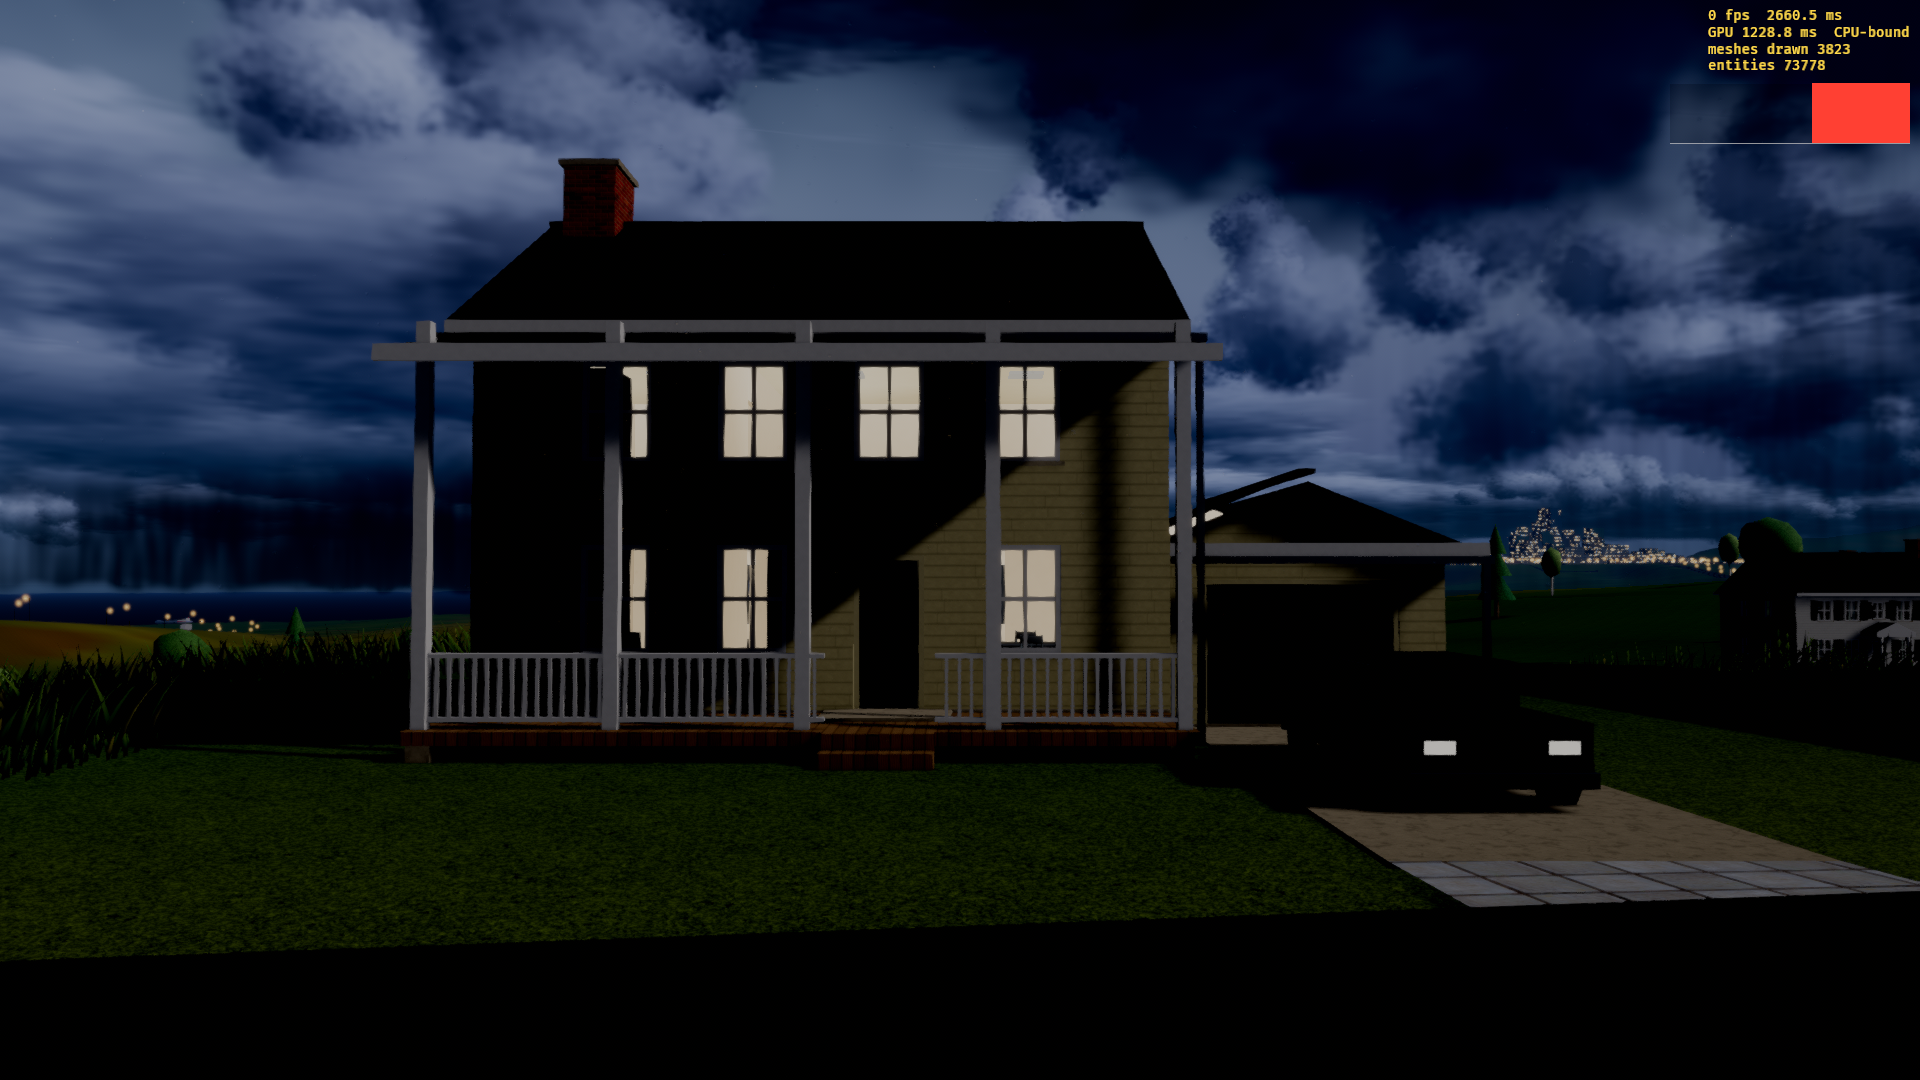
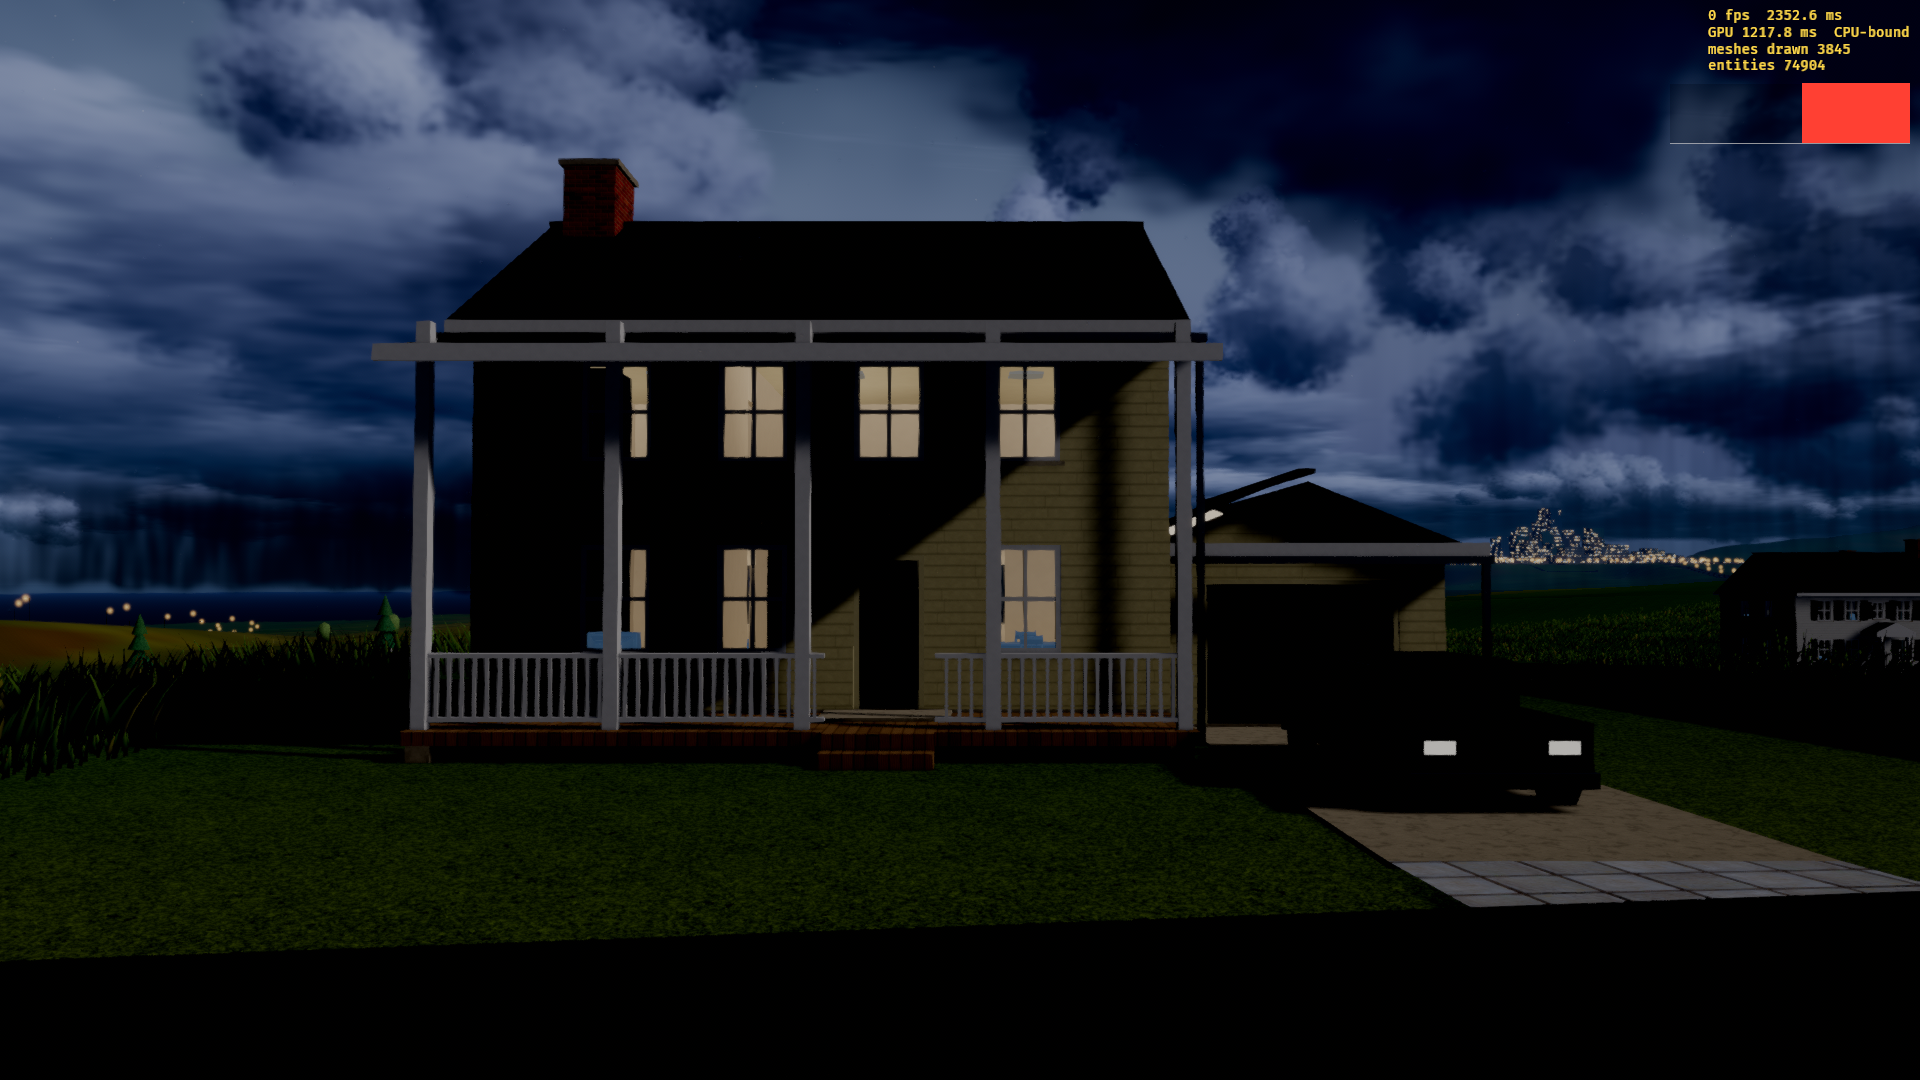
Night light: house stills in game; airfield-at-night mockup published
In game at 22:00: a house behind the towers' glass with its lit room
(before/after crop), and from 300 m the far shells' windows lit house by house.
The airfield mockup (runway, taxiway, approach and PAPI light dots, apron masts,
car-park lamps, lit terminal, always-lit tower cab, a seaport shed) published at
https://claude.ai/artifact/CyXuvuLXdAoWfqcctdUKkr for the owner's look before
any game code for it.

Claude-Session: https://claude.ai/code/session_0158CApsWQMLsRjS8gSGiYVS

diff --git a/docs/mockups/runway_lights.html b/docs/mockups/runway_lights.html
@@ -49,7 +49,7 @@ aside h2 { font: 700 20px/1.1 var(--display); letter-spacing: 0.03em; margin: 0;
     <aside>
       <h2>Views</h2>
       <div class="row" role="group" aria-label="View">
-        <button id="v-final" data-view="final">On final, 3 km out</button>
+        <button id="v-final" data-view="final">On final, 600 m out</button>
         <button id="v-apron" data-view="apron">On the apron</button>
         <button id="v-tower" data-view="tower">From the tower cab</button>
         <button id="v-above" data-view="above">From above</button>
@@ -208,7 +208,7 @@ groups.dots.add(new THREE.Points(dg, dotMat));
 
 // ---- views and layers ----
 const VIEWS = {
-  final: { eye: [-RW.half - 3000, 160, -40], at: [0, 0, 0], label: "on final, 3 km out, 160 m up (a 3 degree glide path)" },
+  final: { eye: [-RW.half - 600, 32, -6], at: [-RW.half + 500, 0, 0], label: "on final, 600 m out, 32 m up (a 3 degree glide path)" },
   apron: { eye: [120, 1.7, SITE_Z + 80], at: [-200, 6, -20], label: "on foot on the apron, eye 1.7 m" },
   tower: { eye: [372, 41, SITE_Z + 112], at: [-300, 0, 0], label: "from the tower cab, 41 m" },
   above: { eye: [700, 900, 1400], at: [0, 0, 100], label: "from above, about 1.6 km off" },

diff --git a/docs/design/README.md b/docs/design/README.md
@@ -68,6 +68,7 @@ built on it), `mech-rig.md`, `alien-rig.md`.
 
 | Page | Published | Built by |
 | --- | --- | --- |
+| Airfield at Night (`docs/mockups/runway_lights.html`): a 2,000 m runway, its taxiway, the terminal apron, the control tower and a seaport shed at 22:00, at true size beside the Foreman and a pilot: runway edge, centre line, threshold, end, approach, PAPI and taxiway light dots, white apron masts and car-park lamps with their pools, the buildings lit every night and the tower cab always (`openspec/changes/night-voxel-light` section 2d) | https://claude.ai/artifact/CyXuvuLXdAoWfqcctdUKkr | hand-written page; shots by `tools/mockups/shoot_runway_lights.mjs` into `docs/screenshots/night-light/` |
 | Night Window Light (`docs/mockups/night_light.html`): a glass office tower across a street at 22:00 three ways (today's glowing glass, glowing panes in vertex colour with the bake's spill, lit rooms behind clear glass), lit by the real bake: lamps and spill by a shortest path through 0.5 m voxels, each room's vertices by distance from its light point; `bench()` times the room light both ways (`openspec/changes/night-voxel-light`) | https://claude.ai/artifact/RYFz1ZXL6pWVcW2fxpiTFF | hand-written page; shots by `tools/mockups/shoot_night_light.mjs` into `docs/screenshots/night-light/` |
 | Crab Breeze Sounds (`docs/mockups/sounds.html`): the first 36 sound effects (mech, weapons, impacts, cockpit), synthesised placeholders, each with a waveform strip and a play button | https://claude.ai/artifact/6XyiVnCGRqbLXq6qPjSXhg | `tools/audio/render_sfx.sh` (generator `tools/audio/gen_sfx.py`), then `python3 tools/audio/gen_sfx_page.py` (the sounds are embedded in the page) |
 | Crab Breeze Music (`docs/mockups/music.html`): the five cues (moody rebel cyberpunk) to play, every motif as a piano roll drawn from the score with its notes and meaning, the musical world | https://claude.ai/artifact/17Lj37SLPpsARPqE9ZfV9C | `tools/music/render.sh` for each `music/<cue>.strudel`, then published with `output/music/*.mp3` as files (skill `music-authoring`) |

diff --git a/openspec/changes/night-voxel-light/tasks.md b/openspec/changes/night-voxel-light/tasks.md
@@ -47,7 +47,7 @@ glass lighting?"). Survey N9-N11 open, built on the recommendations while open.
 
 ## 3e. Airports, seaports and runway lights (owner: "airports and seaports lit like this at all times", "runway lights ... just light dots")
 
-- [ ] 3.15 Mockup `docs/mockups/runway_lights.html`, published, looked at by the owner before 3.16 and 3.17
+- [x] 3.15 Mockup `docs/mockups/runway_lights.html`, published (https://claude.ai/artifact/CyXuvuLXdAoWfqcctdUKkr); waiting for the owner's look before 3.16-3.19
 - [ ] 3.16 Site buildings (Airport, Seaport zones) carry `ALWAYS_LIT`: lit through dusk and all night, no share
 - [ ] 3.19 The control towers' cabs `ALWAYS_ON`, lit day and night at twice a room's brightness (owner: "top control towers should always be lit")
 - [ ] 3.18 Apron masts and car-park lamps as lamp kinds placed from the sites' layouts (design section 2d)
@@ -73,6 +73,9 @@ glass lighting?"). Survey N9-N11 open, built on the recommendations while open.
   sides of the street, some on, some off; far towers keep their painted windows. `ingame-2200-house-near.png`: the
   whole house lit from inside behind its windows. Room light 12 cd/m2 (3 read dim behind the 25 % night glass).
   `CB_STILLS_SETTLE_S` lets a view settle until late pipelines are in (a late road pipeline showed as pale fog).
+
+- [x] 3.20 House stills at 22:00 in game: `ingame-2200-house-near.png` (the towers' glass, the lit room behind it:
+  `ingame-house-glass-before-after.png`), `ingame-2200-house-far.png` (far shells' windows lit house by house)
 
 ## 4. Proof
 
